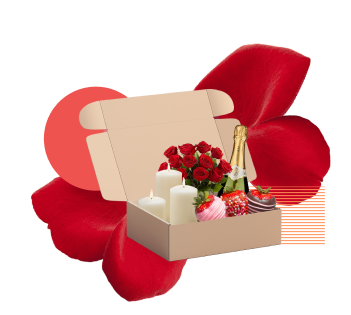
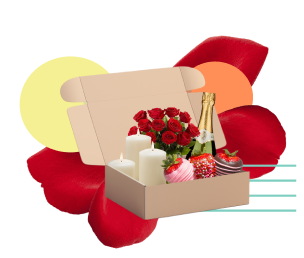
Addede the right colors to the spesfic box

diff --git a/src/components/CurrentBox/currentBox.js b/src/components/CurrentBox/currentBox.js
@@ -19,7 +19,7 @@ const CurrentBox = () => {
       return(
       <>
 
-      <div className={styles.boxWrapper}>
+      <div className={uiStore.currentBox.title === 'Tropicae box' ? styles.color_tropic : uiStore.currentBox.title === 'Advontura Box' ?  styles.color_adventure : styles.color_romantic}>
         <div className={styles.box}>
           <picture className={styles.img}>
             <source
@@ -28,16 +28,11 @@ const CurrentBox = () => {
             />
             <source
               media="(max-width: 768px)"
-              srcSet={`${uiStore.currentBox.pic}.png`}
+              srcSet={`${uiStore.currentBox.pic}-tablet.png`}
             />
             <source
               media="(max-width: 1440px)"
               srcset={`${uiStore.currentBox.pic}.png`}
-            />
-
-            <source
-              media="(max-width: 1920px)"
-              src={`${uiStore.currentBox.pic}.png`}
             />
 
             <img

diff --git a/src/components/CurrentBox/currentBox.module.css b/src/components/CurrentBox/currentBox.module.css
@@ -1,13 +1,26 @@
-.boxWrapper {
+
+.color_adventure {
+  background: linear-gradient(238.32deg, #F3C87A 0%, #F49399 94.44%);
   display: flex;
   justify-content: center;
   align-items: center;
-  background: rgb(243, 200, 122);
-  background: linear-gradient(
-    45deg,
-    rgba(243, 200, 122, 1) 0%,
-    rgba(244, 147, 153, 1) 100%
-  );
+  height: 100vh;
+}
+
+.color_romantic {
+  background: linear-gradient(262.97deg, #FEE785 -4.77%, #FF5959 106.94%);
+  display: flex;
+  justify-content: center;
+  align-items: center;
+  height: 100vh;
+
+}
+
+.color_tropic {
+  background: linear-gradient(262.97deg, #529471 -4.77%, #F5F093 90.83%);
+  display: flex;
+  justify-content: center;
+  align-items: center;
   height: 100vh;
 }
 

diff --git a/src/components/Picturebook/picturebook.module.css b/src/components/Picturebook/picturebook.module.css
@@ -25,7 +25,7 @@
     }
 }
 
-@media only screen and (min-width: 769px) {
+@media only screen and (min-width: 768px) {
     .grid {
         grid-template-columns: repeat(2, 19rem);
         grid-gap: 1rem;

diff --git a/src/components/PicturesDetail/picturedetail.module.css b/src/components/PicturesDetail/picturedetail.module.css
@@ -39,7 +39,7 @@
     }
 }
 
-@media only screen and (min-width: 769px) {
+@media only screen and (min-width: 768px) {
     .grid {
         grid-template-rows: 3rem 1fr 2rem;
         padding: 1rem;

diff --git a/src/components/Header/header.module.css b/src/components/Header/header.module.css
@@ -72,7 +72,7 @@
 
 }
 
-@media only screen and (min-width: 769px) {
+@media only screen and (min-width: 768px) {
   .logo { 
     font-size: 24px;
     padding-top: 5px;
